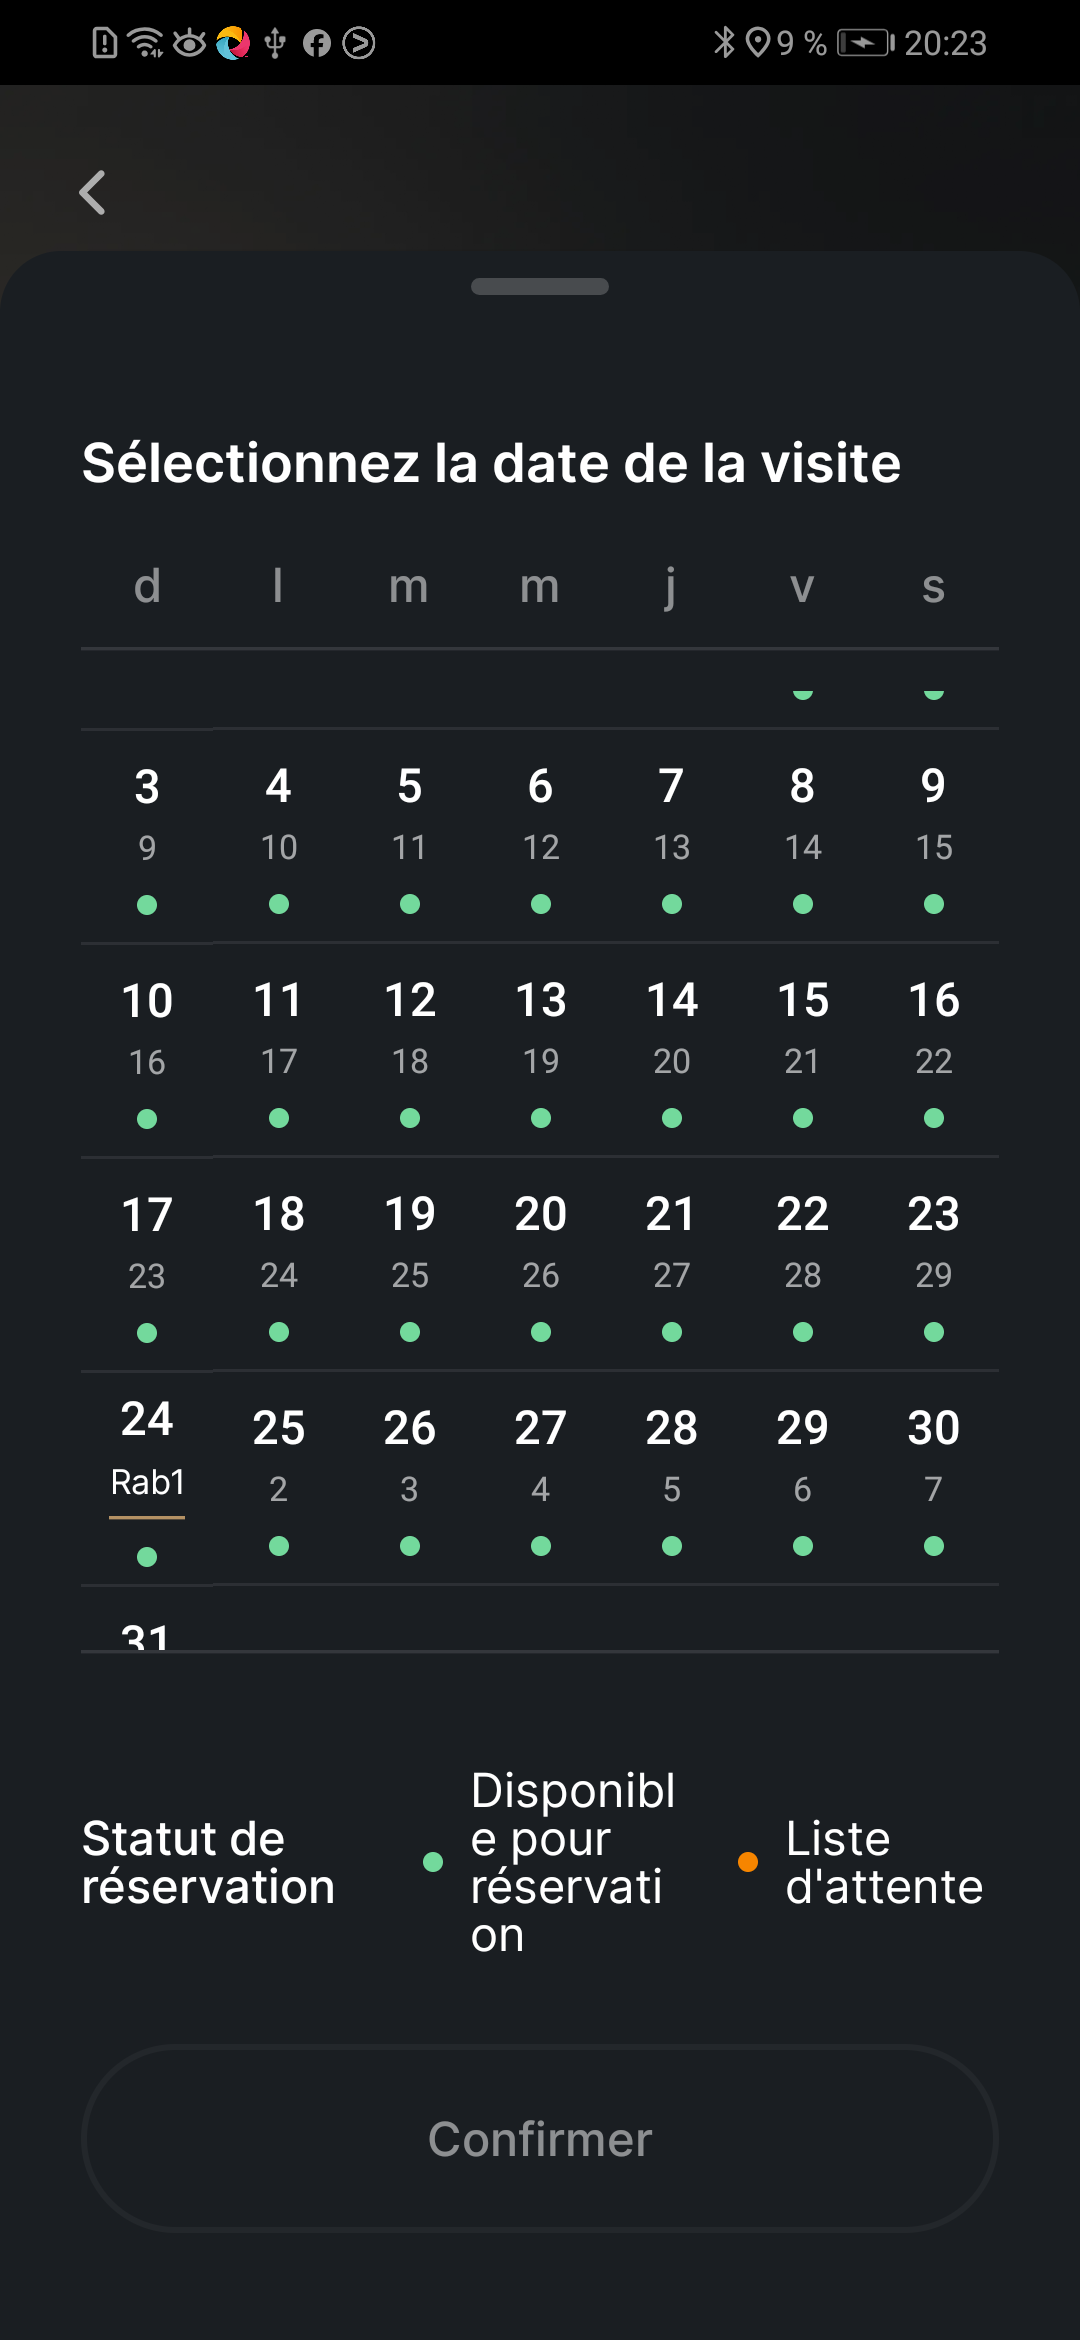
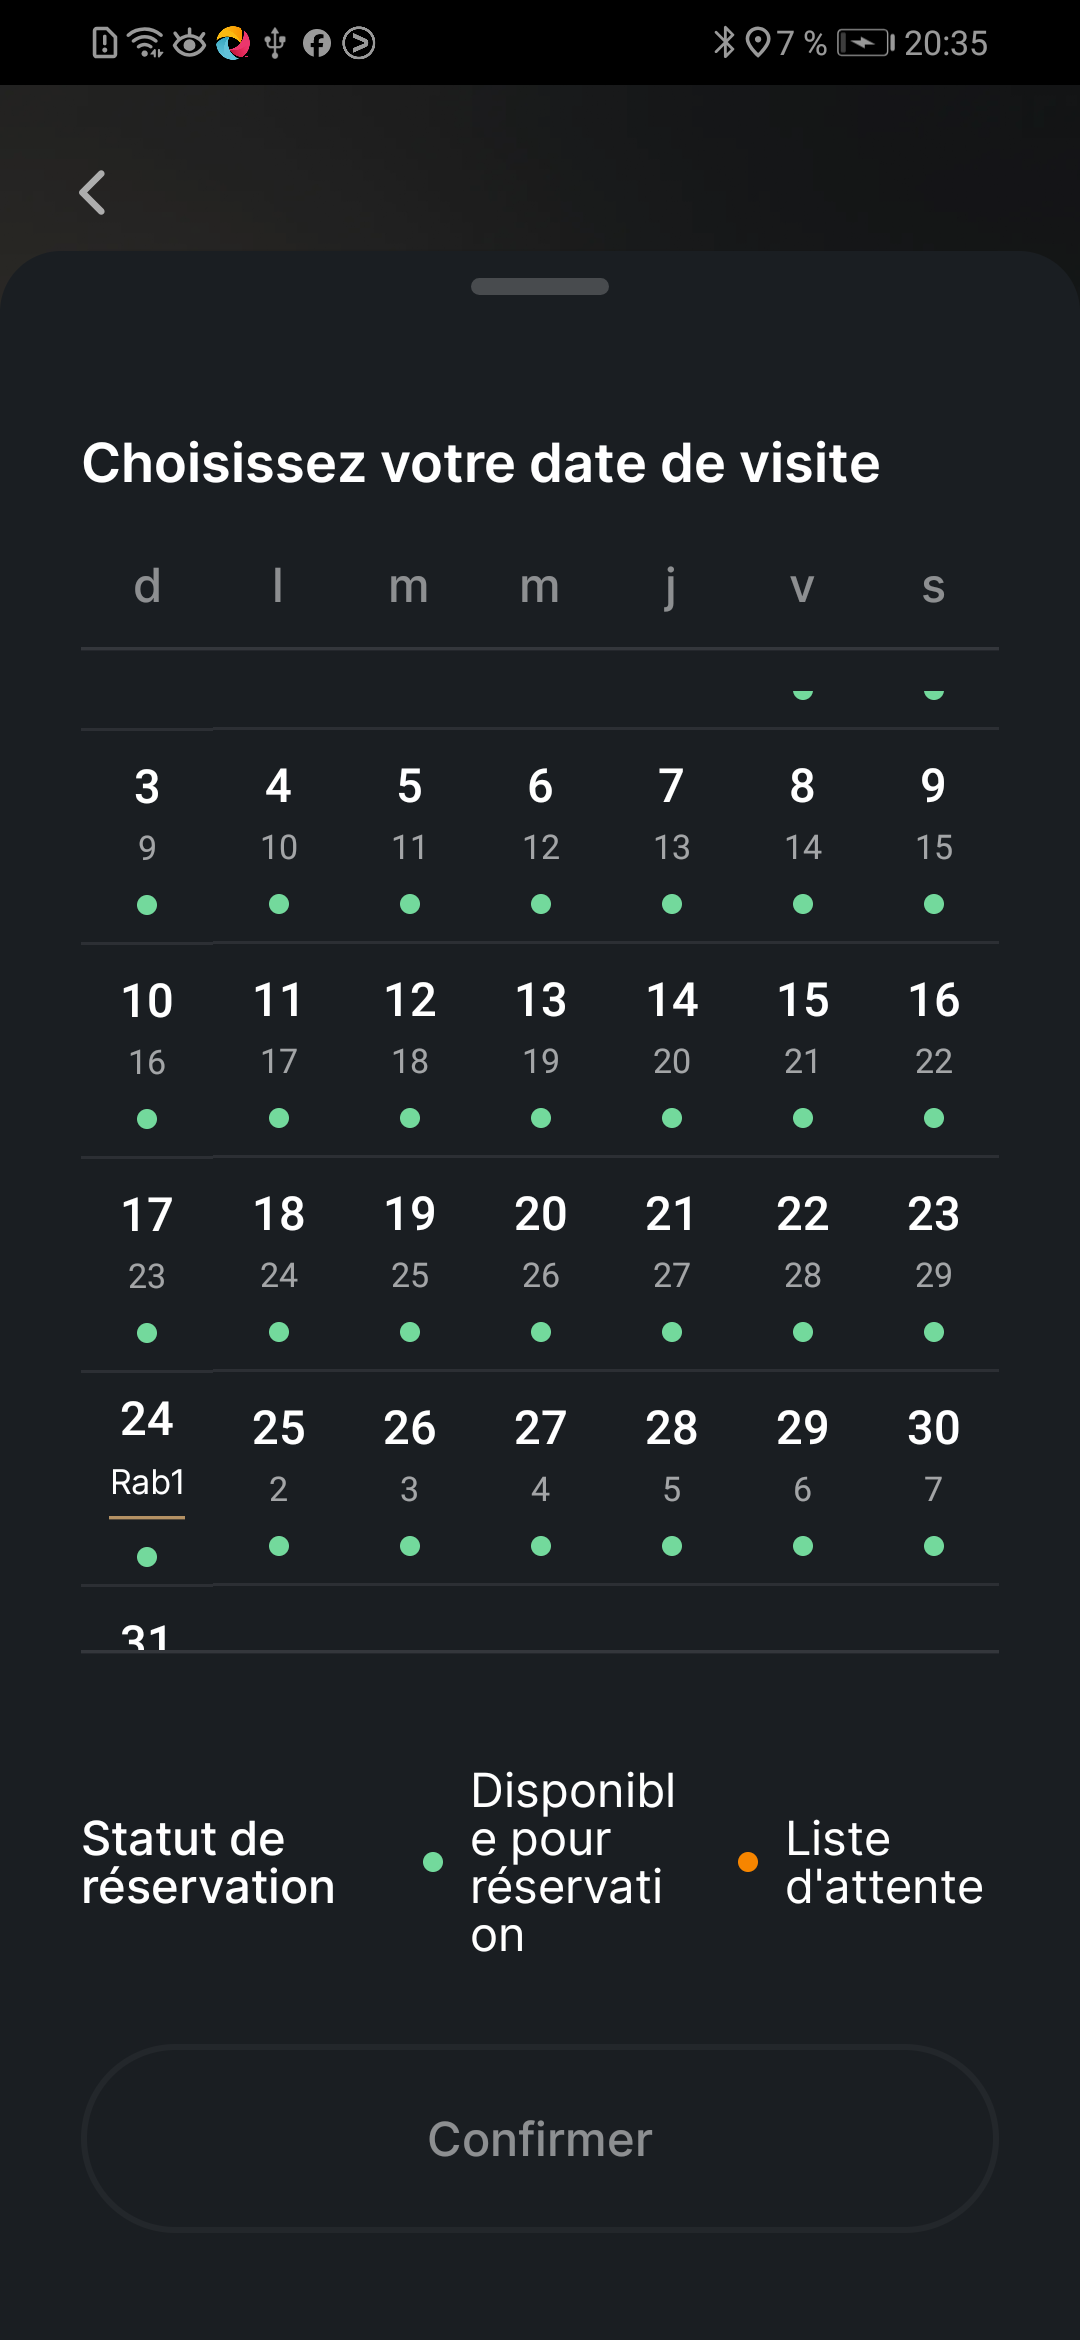
color coding for folders

Changed region(s): [[0.0611, 0.1872, 0.825, 0.2184], [0.8861, 0.0, 0.9167, 0.0312]]

diff --git a/config_gui.py b/config_gui.py
@@ -3,17 +3,18 @@ import re
 import subprocess
 from tempfile import NamedTemporaryFile
 import base64
-
+from PyPDF2 import PdfReader
 import streamlit as st
 import io
 import time
+import pandas as pd
 
 from PIL import Image
 import config
 
 CONFIG_PATH = os.path.join(os.path.dirname(__file__), 'config.py')
 
-def update_config(folder_name, target_date, pays, start_date, pdf_filename):
+def update_config(folder_name, target_date, pays,  pdf_filename):
     """Update selected variables in config.py."""
     with open(CONFIG_PATH, 'r', encoding='utf-8') as file:
         content = file.read()
@@ -22,7 +23,7 @@ def update_config(folder_name, target_date, pays, start_date, pdf_filename):
         'FOLDER_NAME': f'"{folder_name}"',
         'TARGET_DATE': f'"{target_date}"',
         'PAYS': f'"{pays}"',
-        'START_DATE': f'"{start_date}"',
+        
         'PDF_FILE': f'os.path.join(BASE_DIR, FOLDER_NAME, "{pdf_filename}")',
     }
 
@@ -47,28 +48,102 @@ def capture_screenshot():
         return None
 
     return result.stdout
+def get_folder_color(folder):
+    """Determine color for a folder based on its informations.csv."""
+    csv_path = os.path.join(config.BASE_DIR, folder, "informations.csv")
+    if not os.path.exists(csv_path):
+        return None
+    try:
+        df = pd.read_csv(csv_path, dtype=str)
+    except Exception:
+        return None
+    if df.empty or len(df.columns) == 0:
+        return None
+    if 'CREATION' not in df.columns:
+        return None
 
+    creation = df['CREATION'].astype(str)
+    if (creation == '0').any():
+        return 'red'
+
+    if 'RESERVATION' not in df.columns:
+        return 'green'
+    reservation = df['RESERVATION'].astype(str)
+
+    if ((creation == '1') & (reservation == '0')).any():
+        return 'yellow'
+
+    if 'CONFIRMATION' in df.columns:
+        confirmation = df['CONFIRMATION'].astype(str)
+        if ((creation == '1') & (reservation == '1') & (confirmation == '0')).any():
+            return 'blue'
+
+    return 'green'
 
 def main():
-    col1, col2 = st.columns([3, 1])  # Wider left column, narrower right
+    col_editor, col_preview = st.columns([ 5, 2])
+    
+        
+    with col_editor:
+        st.markdown("### 🗂️ Folder Color Legend")
+        color_meanings = {
+            '🟥 Red': 'We have not yet created accounts.',
+            '🟨 Yellow': 'We have not yet made reservations',
+            '🟦 Blue': 'Reservation made, confirmation not yet done',
+            '🟩 Green': 'All steps completed ',
+            '• None': 'No informations.csv found or empty'
+        }
 
-    with col1:
+        for symbol, meaning in color_meanings.items():
+            st.markdown(f"<div style='margin-bottom: 8px;'>- {symbol}: {meaning}</div>", unsafe_allow_html=True)
         # Left side: Configuration editor
         st.title("Configuration Editor")
+        color_priority = ['red', 'yellow', 'blue', 'green',None]
 
-        folder_options = [d for d in os.listdir(config.BASE_DIR)
-                          if os.path.isdir(os.path.join(config.BASE_DIR, d))]
+        all_folders = [d for d in os.listdir(config.BASE_DIR)
+                    if os.path.isdir(os.path.join(config.BASE_DIR, d))]
+
+        # Get color for each folder
+        folder_colors = {folder: get_folder_color(folder) for folder in all_folders}
+
+        # Sort folders by color priority
+        folder_options = sorted(
+            all_folders,
+            key=lambda f: (color_priority.index(folder_colors.get(f, 'green')), f)
+        )
+
         default_index = folder_options.index(config.FOLDER_NAME) if config.FOLDER_NAME in folder_options else 0
-        folder_name = st.selectbox("Select Folder", folder_options, index=default_index)
+
+        color_symbols = {
+            'yellow': '🟨',
+            'red': '🟥',
+            'blue': '🟦',
+            'green': '🟩'
+        }
+        def format_folder(folder):
+            color = folder_colors.get(folder)
+            symbol = color_symbols.get(color, '')
+            return f"{symbol} {folder}" if symbol else folder
+
+        folder_name = st.selectbox(
+            "Select Folder",
+            folder_options,
+            index=default_index,
+            format_func=format_folder  # 🟨🟥🟦🟩 folder label formatter
+        )
+
+
+
+       
         target_date = st.text_input("Target Date", config.TARGET_DATE)
         pays = st.text_input("Pays", config.PAYS)
-        start_date = st.text_input("Start Date", config.START_DATE)
+        
         pdf_filename = st.text_input("PDF File Name", os.path.basename(config.PDF_FILE))
 
         uploaded_pdf = st.file_uploader("Select PDF", type=["pdf"])
 
         if st.button("Save config"):
-            update_config(folder_name, target_date, pays, start_date, pdf_filename)
+            update_config(folder_name, target_date, pays, pdf_filename)
             st.success("Configuration saved")
 
         if uploaded_pdf is not None and st.button("Prepare folder"):
@@ -77,7 +152,7 @@ def main():
                 tmp_path = tmp.name
 
             try:
-                from PyPDF2 import PdfReader
+                
 
                 reader = PdfReader(tmp_path)
                 num_people = len(reader.pages)
@@ -85,7 +160,9 @@ def main():
                 st.error(f"Failed to read PDF: {e}")
                 return
 
-            folder_name_generated = f"{pays}_{num_people}_{start_date}"
+            safe_target_date = target_date.replace("/", "_")
+            folder_name_generated = f"{pays}_{num_people}_{safe_target_date}"
+
             folder_path = os.path.join(config.BASE_DIR, folder_name_generated)
             os.makedirs(folder_path, exist_ok=True)
 
@@ -98,7 +175,7 @@ def main():
                 folder_name_generated,
                 target_date,
                 pays,
-                start_date,
+                
                 uploaded_pdf.name,
             )
             st.success(f"Folder prepared: {folder_path}")
@@ -123,7 +200,7 @@ def main():
             if result.stderr:
                 st.error(result.stderr)
 
-    with col2:
+    with col_preview:
         st.markdown("### 📱 Live Phone Preview")
 
         show_preview = st.checkbox("Show Phone Screen")

diff --git a/config.py b/config.py
@@ -3,7 +3,7 @@ from appium import webdriver
 from appium.options.android import UiAutomator2Options
 
 # Base paths
-FOLDER_NAME = "Indonesia_5_26_07_2025"
+FOLDER_NAME = "Indonesia_31_03_10"
 BASE_DIR = "C:/Users/SBS/Desktop/Hsouna"
 CSV_FILE = os.path.join(BASE_DIR, FOLDER_NAME, "informations.csv")
 EMAIL_JSON_FILE = os.path.join(BASE_DIR, "email_variants.json")
@@ -18,9 +18,9 @@ APP_ACTIVITY = "com.app.nusuk.LoginRegistrationActivity"
 
 # Additional configuration
 PAYS = "Indonesia"
-PAYS_UPPER = "indonesia"
-TARGET_DATE = "09/08"
-START_DATE = "28_07_2025"
+PAYS_UPPER = PAYS.lower()
+TARGET_DATE = "03/10"
+START_DATE = "29_07_2025"
 DURATION_DAYS = 31
 
 # CSV configuration
@@ -45,7 +45,7 @@ FIELDNAMES = [
 ]
 
 # Default PDF path
-PDF_FILE = os.path.join(BASE_DIR, FOLDER_NAME, "E-VISA TABASSAM TRAVEL 03 AGUST'25.pdf")
+PDF_FILE = os.path.join(BASE_DIR, FOLDER_NAME, "Women Rawdah, 31 Pax, 01 Aug, 21.00-23.55.pdf")
 # Directory where confirmation screenshots will be stored
 RAWDHA_DIR = os.path.join(BASE_DIR, FOLDER_NAME, "rawdha")
 

diff --git a/CreationReservation.py b/CreationReservation.py
@@ -246,7 +246,7 @@ for index, row in df.iterrows():
             else:
                 print("❌ Aucune validation trouvée.")
                 break
-
+            df.at[index, 'CREATION'] = "1"
             # Handle permissions and location
             create_now = 0
             try:
@@ -264,7 +264,7 @@ for index, row in df.iterrows():
                 print("Autorisation de l'application requise.\n")
                 sign_in_button = wait.until(EC.presence_of_element_located((AppiumBy.ID, "com.android.packageinstaller:id/permission_allow_button")))
                 sign_in_button.click()
-                df.at[index, 'CREATION'] = "1"
+                
                 df.to_csv(csv_file, index=False, encoding="utf-8")
                 create_now = 1
                 # Navigate to Noble Rawdah booking